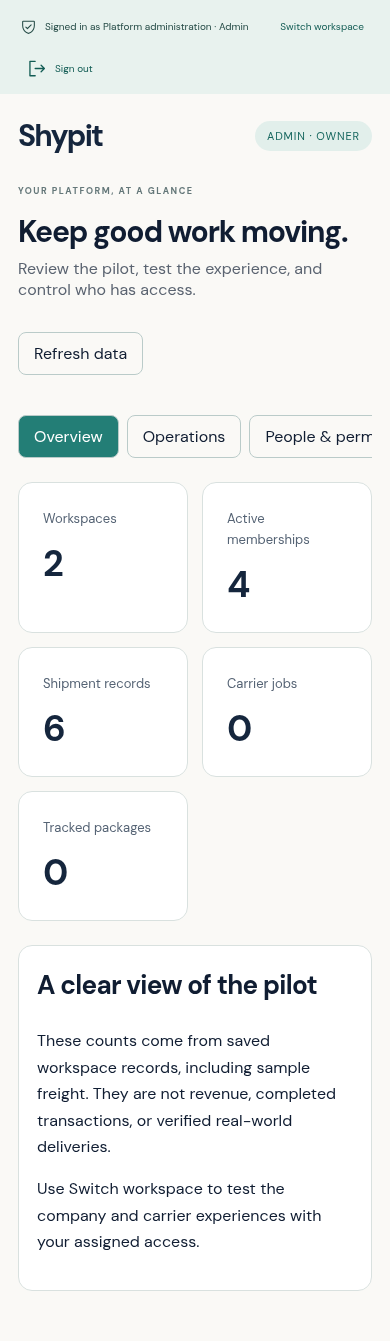
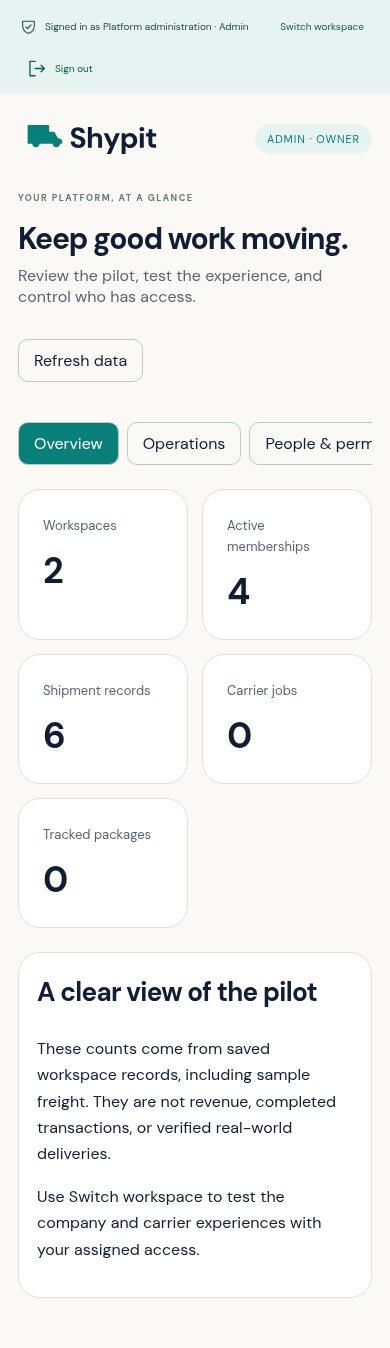
Apply Shypit brand kit v1.2 across responsive workspaces

diff --git a/src/styles.css b/src/styles.css
@@ -10,6 +10,12 @@
   --teal: #087f78;
   --line: #dedfdf;
   --muted: #5b6471;
+  --navy: #101d32;
+  --mint: #18b5a5;
+  --warm-white: #faf9f6;
+  --pale-teal: #e7f3f0;
+  --radius-button: 10px;
+  --radius-card: 22px;
 }
 * {
   box-sizing: border-box;
@@ -1384,4 +1390,73 @@ dialog[open] {
 .account-availability .text-button {
   margin: 8px 0 0;
   padding-left: 0;
+}
+
+/* Brand kit v1.2: outlined lockups retain their original proportions. */
+.brand {
+  display: inline-flex;
+  align-items: center;
+  flex-shrink: 0;
+}
+.brand-lockup {
+  display: block;
+  width: 180px;
+  height: auto;
+}
+.topbar .brand-lockup {
+  width: 155px;
+}
+.auth-story {
+  position: relative;
+  isolation: isolate;
+  overflow: hidden;
+}
+.auth-story::after {
+  content: "";
+  position: absolute;
+  z-index: -1;
+  width: 380px;
+  height: 180px;
+  right: -70px;
+  bottom: 80px;
+  background: url("/brand/route-graphic.svg") center / contain no-repeat;
+  opacity: 0.13;
+  pointer-events: none;
+}
+.auth-story .eyebrow {
+  color: var(--mint);
+}
+.primary,
+.small-button,
+.filters input,
+.filters select,
+.password-input,
+.workspace-choice {
+  border-radius: var(--radius-button);
+}
+.membership,
+.job,
+.billing-plan,
+.empty,
+.modal {
+  border-radius: var(--radius-card);
+}
+.session-strip {
+  background: var(--pale-teal);
+}
+@media (max-width: 700px) {
+  .role {
+    max-width: calc(100% - 175px);
+  }
+  .auth-story::after {
+    width: 220px;
+    bottom: 0;
+    opacity: 0.08;
+  }
+}
+footer {
+  flex-wrap: wrap;
+}
+footer .brand-lockup {
+  width: 150px;
 }

diff --git a/src/admin.css b/src/admin.css
@@ -17,8 +17,8 @@
 .admin-badge {
   font-size: 11px;
   letter-spacing: 0.08em;
-  background: #e2efeb;
-  color: #17675f;
+  background: var(--pale-teal);
+  color: var(--teal);
   padding: 8px 12px;
   border-radius: 30px;
 }
@@ -39,7 +39,7 @@
   white-space: nowrap;
 }
 .admin-tabs button[aria-current] {
-  background: #237e76;
+  background: var(--teal);
   color: white;
 }
 .admin-shell button {
@@ -73,7 +73,7 @@
 .admin-metrics strong {
   display: block;
   font-size: 36px;
-  color: #15263d;
+  color: var(--navy);
   margin-top: 12px;
 }
 .admin-card {
@@ -124,7 +124,7 @@
 .admin-check input {
   width: 18px;
   height: 18px;
-  accent-color: #237e76;
+  accent-color: var(--teal);
 }
 .admin-confirm {
   background: #edf4f1;
@@ -144,11 +144,11 @@
   margin: 24px 0;
 }
 .admin-links a {
-  color: #17675f;
+  color: var(--teal);
   font-weight: 600;
 }
 .admin-shell :focus-visible {
-  outline: 3px solid #237e76;
+  outline: 3px solid var(--teal);
   outline-offset: 3px;
 }
 @media (max-width: 760px) {
@@ -179,7 +179,7 @@
   }
 }
 .admin-header .brand {
-  color: #15263d;
+  color: var(--navy);
 }
 .admin-records {
   display: grid;
@@ -197,5 +197,13 @@
 }
 .admin-record > span {
   font-size: 13px;
-  color: #17675f;
+  color: var(--teal);
+}
+
+.admin-metrics article,
+.admin-card {
+  border-radius: var(--radius-card);
+}
+.admin-shell button {
+  border-radius: var(--radius-button);
 }

diff --git a/index.html b/index.html
@@ -7,9 +7,31 @@
     <meta name="theme-color" content="#101d32" />
     <meta
       name="description"
-      content="Shypit connects businesses and freight drivers. Explore our interactive demo."
+      content="A private workspace for shipping teams and their carriers. Your people. Your freight."
     />
-    <title>Shypit — Keep freight moving</title>
+    <link
+      rel="icon"
+      type="image/png"
+      sizes="32x32"
+      href="./brand/app-icon-32.png"
+    />
+    <link
+      rel="apple-touch-icon"
+      sizes="180x180"
+      href="./brand/app-icon-180.png"
+    />
+    <meta property="og:title" content="Shypit — Your people. Your freight." />
+    <meta
+      property="og:description"
+      content="A private workspace for shipping teams and their carriers."
+    />
+    <meta
+      property="og:image"
+      content="https://adoblake.github.io/shypit/brand/open-graph.png"
+    />
+    <meta property="og:url" content="https://adoblake.github.io/shypit/" />
+    <meta name="twitter:card" content="summary_large_image" />
+    <title>Shypit — Your people. Your freight.</title>
   </head>
   <body>
     <div id="root"></div>

diff --git a/public/walkthrough/index.html b/public/walkthrough/index.html
@@ -4,6 +4,7 @@
     <meta charset="UTF-8" />
     <meta name="viewport" content="width=device-width,initial-scale=1" />
     <meta name="referrer" content="no-referrer" />
+    <link rel="icon" href="../brand/app-icon-32.png" />
     <title>Shypit — A shipment, together</title>
     <style>
       body {
@@ -93,7 +94,13 @@
   </head>
   <body>
     <header>
-      <a class="brand" href="../">Shypit</a><a href="../">Back to sign-in</a>
+      <a class="brand" href="../"
+        ><img
+          src="../brand/lockup-white.svg"
+          alt="Shypit"
+          width="155"
+          height="40" /></a
+      ><a href="../">Back to sign-in</a>
     </header>
     <main>
       <p class="eyebrow">GOOD-CASE SHIPMENT WALKTHROUGH</p>

diff --git a/src/main.jsx b/src/main.jsx
@@ -1,3 +1,4 @@
+import Brand from "./Brand";
 import React, { useState, useEffect } from "react";
 import { createRoot } from "react-dom/client";
 import {
@@ -192,7 +193,7 @@ function App({ account, initialData }) {
             setPage(tabs[0]);
           }}
         >
-          Shypit
+          <Brand light />
         </a>
         <nav aria-label="Main navigation">
           {tabs.map((t) => (
@@ -774,7 +775,7 @@ function App({ account, initialData }) {
         </main>
       )}
       <footer>
-        Shypit <span>Better together. Mile after mile.</span>
+        <Brand /> <span>Better together. Mile after mile.</span>
         <span>Private workspace</span>
       </footer>
       {modal && (

diff --git a/src/Admin.jsx b/src/Admin.jsx
@@ -1,3 +1,4 @@
+import Brand from "./Brand";
 import React, { useEffect, useState } from "react";
 import "./admin.css";
 const sections = {
@@ -65,7 +66,7 @@ export default function Admin({ request, profile, onAccessChanged }) {
     <main className="admin-shell">
       <header className="admin-header">
         <a className="brand" href="#">
-          Shypit
+          <Brand />
         </a>
         <span className="admin-badge">
           ADMIN · {profile.owner ? "OWNER" : "LIMITED ACCESS"}

diff --git a/src/auth.jsx b/src/auth.jsx
@@ -1,3 +1,4 @@
+import Brand from "./Brand";
 import Admin from "./Admin";
 import React, {
   createContext,
@@ -608,7 +609,7 @@ export function AuthGate({ children }) {
     <main className="auth-page">
       <section className="auth-story">
         <a href="#" className="brand">
-          Shypit
+          <Brand light />
         </a>
         <div>
           <p className="eyebrow">YOUR PEOPLE. YOUR FREIGHT.</p>

diff --git a/src/Brand.jsx b/src/Brand.jsx
@@ -1,0 +1,12 @@
+import React from "react";
+export default function Brand({ light = false }) {
+  return (
+    <img
+      className="brand-lockup"
+      src={`${import.meta.env.BASE_URL}brand/lockup-${light ? "white" : "navy"}.svg`}
+      alt="Shypit"
+      width="180"
+      height="47"
+    />
+  );
+}

diff --git a/docs/branding.md b/docs/branding.md
@@ -1,0 +1,9 @@
+# Brand kit v1.2
+
+Applied from the user-supplied `Shypit-Brand-Kit-v1.2.zip` (13 November 2026). Selected original SVG/PNG assets are in `public/brand`; logo lettering is outlined. `src/Brand.jsx` selects the supplied navy/teal lockup on light backgrounds and white/mint lockup on navy. Preserve their proportions and minimum 150px lockup width.
+
+The existing licensed, locally bundled DM Sans font remains in use. Tokens retain navy #101D32, teal #087F78, mint #18B5A5, warm white #FAF9F6, pale teal #E7F3F0, and slate #5B6471. Mint is decorative on light surfaces; white button copy uses teal. Button radius is 10px and major cards use 22px.
+
+Updated app headers/footer, login/recovery shell, administration, walkthrough page header, favicon, Apple touch icon, and social preview metadata. The pre-existing shipment recording remains a historical walkthrough. Campaign ads, email signatures, print collateral, and placeholder contact details were not published as app content.
+
+Validated desktop/mobile sign-in, workspace switching and admin permissions, production subpath asset loading, and video playback. Review screenshots in `docs/review/brand-*` use intercepted sample identities, not real customer data.
